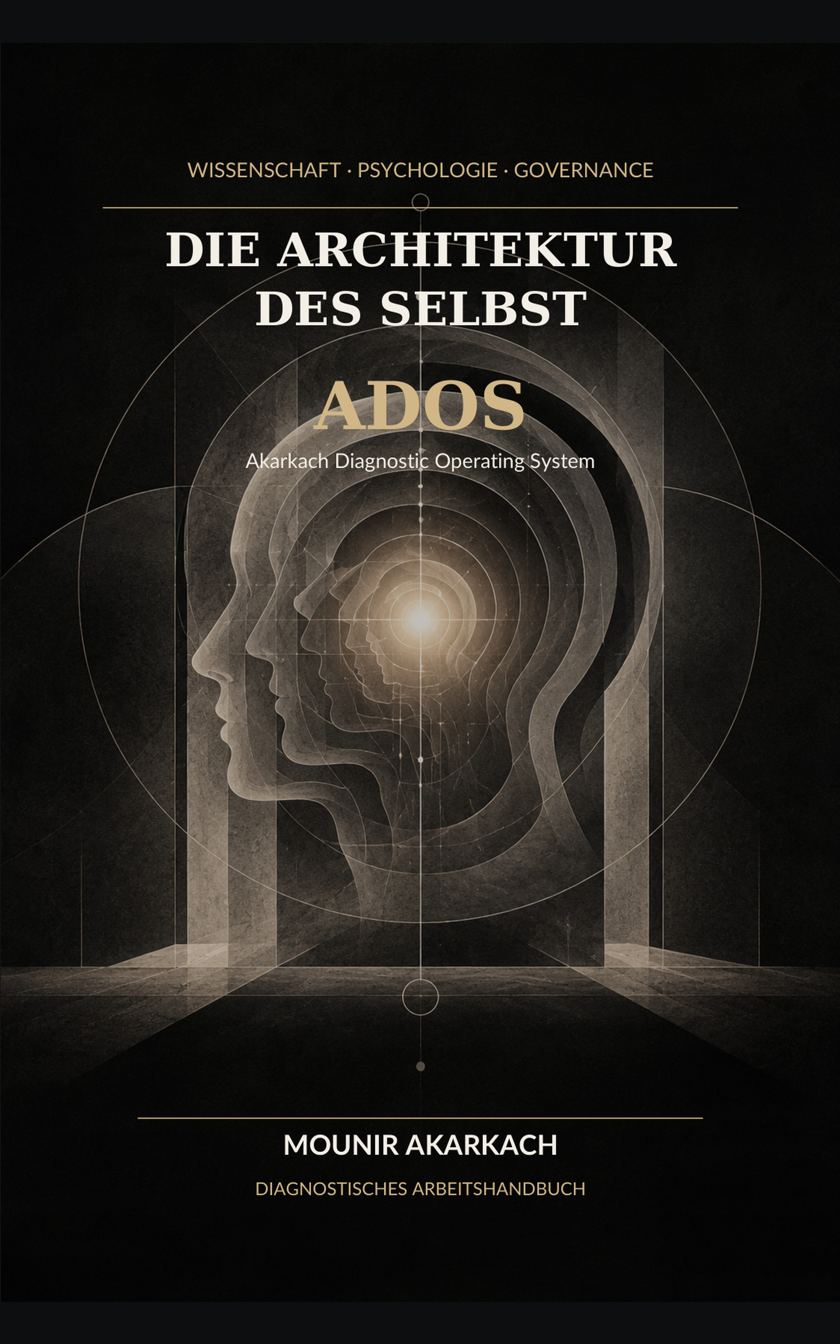
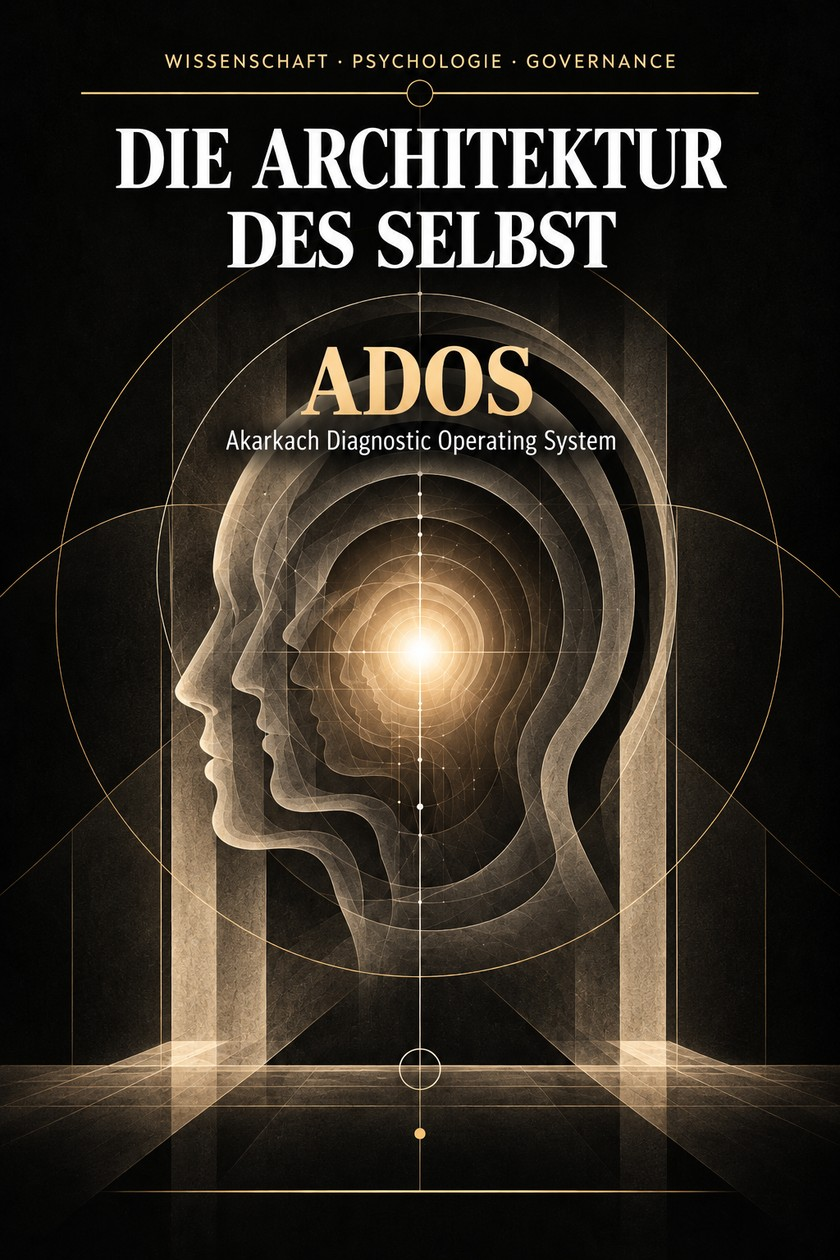
fix(ados): preserve 2:3 cover dimensions in published responsive microsite

diff --git a/index.html b/index.html
@@ -10,13 +10,13 @@
 <meta property="og:url" content="https://mounirakarkach04-pixel.github.io/ados/">
 <style>
 :root{--dark:#0b2932;--dark2:#163c43;--gold:#d5b380;--cream:#f6f2eb;--ink:#18393c;--mute:#587074;--line:#dbe2dd;--green:#3d7664}
-*{box-sizing:border-box}html{scroll-behavior:smooth}body{margin:0;background:var(--cream);color:var(--ink);font-family:system-ui,-apple-system,Segoe UI,Roboto,Arial,sans-serif;line-height:1.64}a{color:inherit}a:focus-visible{outline:3px solid var(--gold);outline-offset:4px}.wrap{width:min(1120px,calc(100% - 40px));margin:auto}.top{background:var(--dark);color:#fff;position:sticky;top:0;z-index:10;border-bottom:1px solid #426069}.nav{min-height:66px;display:flex;align-items:center;justify-content:space-between;gap:12px}.logo{font-weight:800;letter-spacing:.12em;font-size:13px;text-decoration:none}.logo span{color:var(--gold)}.navlinks{display:flex;align-items:center;gap:20px;flex-wrap:wrap}.navlinks a{font-size:12px;text-decoration:none}.navlinks a:hover{text-decoration:underline}.hero{color:#fff;background:radial-gradient(circle at 74% 5%,#41686266,transparent 37%),linear-gradient(120deg,#09252e,#214b49);padding:74px 0 85px}.twocol{display:grid;grid-template-columns:1.15fr .85fr;align-items:center;gap:54px}.kicker{color:#c9a66e;letter-spacing:.17em;font-size:11px;text-transform:uppercase;font-weight:800}h1,h2,h3{line-height:1.13;letter-spacing:-.038em}h1{font-size:clamp(40px,6vw,73px);margin:16px 0 23px}h2{font-size:clamp(30px,4.1vw,46px);margin:15px 0 18px}h3{font-size:21px;margin:0 0 9px}.lead{font-size:clamp(17px,2vw,21px);max-width:640px}.hero p{color:#d6e5de}.btn{display:inline-flex;align-items:center;justify-content:center;min-height:48px;border-radius:9px;padding:12px 20px;text-decoration:none;font-weight:740;font-size:13px;line-height:1.4;border:1px solid transparent}.btn.gold{background:var(--gold);color:#0a2930}.btn.ghost{border-color:#9cb6ad;color:#fff}.btn.dark{background:var(--dark);color:#fff}.btn.light{background:#fff;color:var(--ink);border-color:#cedbd3}.buttons{display:flex;gap:11px;flex-wrap:wrap;margin:28px 0 15px}.coverbox{text-align:center}.cover{width:min(290px,100%);box-shadow:24px 25px 38px #06181e88;transform:perspective(800px) rotateY(-10deg);border-radius:4px}.caption{color:#d8e0d9;font-size:11px;letter-spacing:.08em;margin-top:21px}.metrics{display:flex;gap:12px;flex-wrap:wrap;margin-top:26px}.metric{border:1px solid #75938a55;border-radius:11px;padding:8px 13px;font-size:11px;color:#ceddd7}.metric strong{display:block;font-size:17px;color:#fff}.section{padding:79px 0}.sectionhead{max-width:770px;margin-bottom:31px}.sectionhead p{color:var(--mute)}.cards{display:grid;grid-template-columns:repeat(3,minmax(0,1fr));gap:17px}.card{border:1px solid var(--line);background:#fff;border-radius:17px;padding:25px;display:flex;flex-direction:column}.card p{color:var(--mute);font-size:14px;flex:1;margin:4px 0 21px}.small{font-size:12px;color:var(--mute)}.pill{display:inline-flex;align-self:flex-start;padding:5px 9px;border-radius:99px;background:#e8eee9;color:#366c58;font-size:10px;font-weight:800;letter-spacing:.06em;text-transform:uppercase;margin-bottom:15px}.mutebg{background:#e8eee9}.bullets{list-style:none;margin:16px 0 24px;padding:0}.bullets li{margin:10px 0;padding-left:24px;position:relative}.bullets li:before{content:"→";position:absolute;left:0;color:var(--green)}.method{background:#fff;border:1px solid var(--line);padding:27px;border-radius:19px}.methodrow{padding:15px 0;border-bottom:1px solid var(--line)}.methodrow:last-child{border:0}.methodrow strong{display:block}.methodrow span{display:block;color:var(--mute);font-size:13px;margin-top:4px}.caution{padding:18px 21px;background:#faf3df;border:1px solid #e6d8ac;border-radius:13px;color:#574825;font-size:13px;margin-top:23px}.deep{background:var(--dark);color:#fff}.deep .sectionhead p,.deep .small{color:#cddbd4}.deep .card{background:#1b3e45;color:#fff;border-color:#456369}.deep .card p{color:#cfe1dc}.deep .pill{background:#2b584f;color:#d9f4e5}.flow{display:flex;flex-wrap:wrap;gap:6px;margin-top:20px}.flow span{background:#dfeae4;border-radius:7px;padding:7px 10px;font-size:12px;font-weight:650}.prod a{font-size:13px;font-weight:750;color:#2e6556;text-decoration:none}.prod a:hover{text-decoration:underline}.statement{background:linear-gradient(115deg,#12343d,#2b5a52);color:#fff;border-radius:20px;padding:33px;margin-top:26px}.statement h3{font-size:28px}.statement p{color:#d5e6df}.footer{background:#071d25;color:#d2e0d8;padding:32px 0}.footer .wrap{display:flex;justify-content:space-between;gap:18px;flex-wrap:wrap}.footer a{display:inline-block;font-size:12px;color:#d2e0d8;margin:0 10px 8px 0}.note{max-width:760px;font-size:12px;color:#a9c1b5}.anchor{scroll-margin-top:78px}
+*{box-sizing:border-box}html{scroll-behavior:smooth}body{margin:0;background:var(--cream);color:var(--ink);font-family:system-ui,-apple-system,Segoe UI,Roboto,Arial,sans-serif;line-height:1.64}a{color:inherit}a:focus-visible{outline:3px solid var(--gold);outline-offset:4px}.wrap{width:min(1120px,calc(100% - 40px));margin:auto}.top{background:var(--dark);color:#fff;position:sticky;top:0;z-index:10;border-bottom:1px solid #426069}.nav{min-height:66px;display:flex;align-items:center;justify-content:space-between;gap:12px}.logo{font-weight:800;letter-spacing:.12em;font-size:13px;text-decoration:none}.logo span{color:var(--gold)}.navlinks{display:flex;align-items:center;gap:20px;flex-wrap:wrap}.navlinks a{font-size:12px;text-decoration:none}.navlinks a:hover{text-decoration:underline}.hero{color:#fff;background:radial-gradient(circle at 74% 5%,#41686266,transparent 37%),linear-gradient(120deg,#09252e,#214b49);padding:74px 0 85px}.twocol{display:grid;grid-template-columns:1.15fr .85fr;align-items:center;gap:54px}.kicker{color:#c9a66e;letter-spacing:.17em;font-size:11px;text-transform:uppercase;font-weight:800}h1,h2,h3{line-height:1.13;letter-spacing:-.038em}h1{font-size:clamp(40px,6vw,73px);margin:16px 0 23px}h2{font-size:clamp(30px,4.1vw,46px);margin:15px 0 18px}h3{font-size:21px;margin:0 0 9px}.lead{font-size:clamp(17px,2vw,21px);max-width:640px}.hero p{color:#d6e5de}.btn{display:inline-flex;align-items:center;justify-content:center;min-height:48px;border-radius:9px;padding:12px 20px;text-decoration:none;font-weight:740;font-size:13px;line-height:1.4;border:1px solid transparent}.btn.gold{background:var(--gold);color:#0a2930}.btn.ghost{border-color:#9cb6ad;color:#fff}.btn.dark{background:var(--dark);color:#fff}.btn.light{background:#fff;color:var(--ink);border-color:#cedbd3}.buttons{display:flex;gap:11px;flex-wrap:wrap;margin:28px 0 15px}.coverbox{text-align:center}.cover{display:block;width:min(290px,100%);max-width:100%;height:auto!important;max-height:none;aspect-ratio:2/3;object-fit:contain;box-shadow:15px 20px 35px #06181e88;transform:none!important;border-radius:4px;margin-inline:auto}.caption{color:#d8e0d9;font-size:11px;letter-spacing:.08em;margin-top:21px}.metrics{display:flex;gap:12px;flex-wrap:wrap;margin-top:26px}.metric{border:1px solid #75938a55;border-radius:11px;padding:8px 13px;font-size:11px;color:#ceddd7}.metric strong{display:block;font-size:17px;color:#fff}.section{padding:79px 0}.sectionhead{max-width:770px;margin-bottom:31px}.sectionhead p{color:var(--mute)}.cards{display:grid;grid-template-columns:repeat(3,minmax(0,1fr));gap:17px}.card{border:1px solid var(--line);background:#fff;border-radius:17px;padding:25px;display:flex;flex-direction:column}.card p{color:var(--mute);font-size:14px;flex:1;margin:4px 0 21px}.small{font-size:12px;color:var(--mute)}.pill{display:inline-flex;align-self:flex-start;padding:5px 9px;border-radius:99px;background:#e8eee9;color:#366c58;font-size:10px;font-weight:800;letter-spacing:.06em;text-transform:uppercase;margin-bottom:15px}.mutebg{background:#e8eee9}.bullets{list-style:none;margin:16px 0 24px;padding:0}.bullets li{margin:10px 0;padding-left:24px;position:relative}.bullets li:before{content:"→";position:absolute;left:0;color:var(--green)}.method{background:#fff;border:1px solid var(--line);padding:27px;border-radius:19px}.methodrow{padding:15px 0;border-bottom:1px solid var(--line)}.methodrow:last-child{border:0}.methodrow strong{display:block}.methodrow span{display:block;color:var(--mute);font-size:13px;margin-top:4px}.caution{padding:18px 21px;background:#faf3df;border:1px solid #e6d8ac;border-radius:13px;color:#574825;font-size:13px;margin-top:23px}.deep{background:var(--dark);color:#fff}.deep .sectionhead p,.deep .small{color:#cddbd4}.deep .card{background:#1b3e45;color:#fff;border-color:#456369}.deep .card p{color:#cfe1dc}.deep .pill{background:#2b584f;color:#d9f4e5}.flow{display:flex;flex-wrap:wrap;gap:6px;margin-top:20px}.flow span{background:#dfeae4;border-radius:7px;padding:7px 10px;font-size:12px;font-weight:650}.prod a{font-size:13px;font-weight:750;color:#2e6556;text-decoration:none}.prod a:hover{text-decoration:underline}.statement{background:linear-gradient(115deg,#12343d,#2b5a52);color:#fff;border-radius:20px;padding:33px;margin-top:26px}.statement h3{font-size:28px}.statement p{color:#d5e6df}.footer{background:#071d25;color:#d2e0d8;padding:32px 0}.footer .wrap{display:flex;justify-content:space-between;gap:18px;flex-wrap:wrap}.footer a{display:inline-block;font-size:12px;color:#d2e0d8;margin:0 10px 8px 0}.note{max-width:760px;font-size:12px;color:#a9c1b5}.anchor{scroll-margin-top:78px}
 @media(max-width:900px){.twocol{grid-template-columns:1fr;gap:28px}.cover{max-width:240px}.cards{grid-template-columns:repeat(2,minmax(0,1fr))}}
 @media(max-width:600px){.wrap{width:calc(100% - 30px)}.nav{gap:9px}.logo{font-size:11px}.navlinks{gap:9px}.navlinks a{font-size:10px}.navlinks a:nth-child(3){display:none}.hero{padding:46px 0 62px}.section{padding:60px 0}.cards{grid-template-columns:1fr}.buttons .btn{width:100%}.cover{max-width:205px}.statement{padding:25px}.footer .wrap{display:block}}
 </style></head><body>
 <header class="top"><nav class="wrap nav" aria-label="Navigation"><a class="logo" href="/">PIGA POCKET <span> / ADOS</span></a><div class="navlinks"><a href="#buch">Buch</a><a href="#demo">Download</a><a href="#lizenz">Lizenz</a><a href="#portfolio">PIGA Produkte</a></div></nav></header>
 <main>
-<section class="hero"><div class="wrap twocol"><div><div class="kicker">Wissenschaft · Psychologie · Governance</div><h1>Die Architektur<br>des Selbst.</h1><p class="lead">Beobachtung ist keine Diagnose.<br><strong>Und eine Hypothese noch keine Gewissheit.</strong></p><p>ADOS – Akarkach Diagnostic Operating System ist eine theoretische Prüfarchitektur für psychologische Fallanalysen, nachvollziehbare Evidenz, Gegenhypothesen und Entscheidungsgrenzen.</p><div class="buttons"><a class="btn gold" href="#demo">Kostenlose Forschungsdemo testen ↗</a><a class="btn ghost" href="#buch">Das Buch entdecken</a></div><div class="metrics"><div class="metric"><strong>18</strong>Fachkapitel</div><div class="metric"><strong>7 + 7</strong>A7SEM & Reverse</div><div class="metric"><strong>2</strong>Getrennte Gates</div></div></div><div class="coverbox"><img class="cover" src="/ados/cover.jpg" width="840" height="1344" alt="Die Architektur des Selbst – ADOS Buchcover von Mounir Akarkach"><div class="caption">BUCH · METHODIK · SOFTWARE-DEMO</div></div></div></section>
+<section class="hero"><div class="wrap twocol"><div><div class="kicker">Wissenschaft · Psychologie · Governance</div><h1>Die Architektur<br>des Selbst.</h1><p class="lead">Beobachtung ist keine Diagnose.<br><strong>Und eine Hypothese noch keine Gewissheit.</strong></p><p>ADOS – Akarkach Diagnostic Operating System ist eine theoretische Prüfarchitektur für psychologische Fallanalysen, nachvollziehbare Evidenz, Gegenhypothesen und Entscheidungsgrenzen.</p><div class="buttons"><a class="btn gold" href="#demo">Kostenlose Forschungsdemo testen ↗</a><a class="btn ghost" href="#buch">Das Buch entdecken</a></div><div class="metrics"><div class="metric"><strong>18</strong>Fachkapitel</div><div class="metric"><strong>7 + 7</strong>A7SEM & Reverse</div><div class="metric"><strong>2</strong>Getrennte Gates</div></div></div><div class="coverbox"><img class="cover" src="/ados/cover.jpg?v=20261024" width="840" height="1260" alt="Die Architektur des Selbst – ADOS Buchcover von Mounir Akarkach"><div class="caption">BUCH · METHODIK · SOFTWARE-DEMO</div></div></div></section>
 <section class="section anchor" id="buch"><div class="wrap twocol"><div><div class="kicker">01 / Das Buch</div><h2>Wo endet Beobachtung – und wo beginnt Interpretation?</h2><p>Das wissenschaftliche Buch <strong>„Die Architektur des Selbst“</strong> führt ADOS als methodische Forschungs- und Reflexionsarchitektur ein. Was wurde tatsächlich berichtet, beobachtet oder gemessen? Was ist Interpretation? Welche Alternativerklärungen bleiben offen?</p><p>18 Kapitel behandeln unter anderem depressive Zustände, Angst, Traumafolgen, Dissoziation, Persönlichkeit, Bindung, Kognition und emotionale Regulation – mit konstruierten Beispielen, Prüfprotokollen und dokumentierten Unsicherheiten.</p><ul class="bullets"><li>Originalbefunde von Deutungen trennen</li><li>Gegenhypothesen und Evidenzlücken identifizieren</li><li>Entscheidungsgrenzen transparent dokumentieren</li><li>Diagnostische Scheinsicherheit vermeiden</li></ul><div class="buttons"><a class="btn dark" href="https://www.amazon.de/s?k=Die+Architektur+des+Selbst+Mounir+Akarkach" target="_blank" rel="noopener noreferrer">Buch bei Amazon suchen ↗</a><a class="btn light" href="#demo">Arbeitslogik testen</a></div><div class="small">Hinweis: Bis eine konkrete ASIN bestätigt ist, führt der Amazon-Link zur Suche und nicht zu einer verifizierten Produktdetailseite.</div></div><div class="method"><div class="methodrow"><strong>PIGA – Pre-Inference Governance</strong><span>Trennung zwischen Gate 1 für Schlussfolgerungen und Gate 2 für autorisierte Handlungen.</span></div><div class="methodrow"><strong>A7SEM – 7-Stufen-Modell</strong><span>Verlauf, Kontext, Rückkopplung und Systemzustände analysieren.</span></div><div class="methodrow"><strong>A7SEM Reverse</strong><span>Schlussfolgerungen zurückverfolgen zu den Quellen und ihren Gültigkeitsgrenzen.</span></div><div class="methodrow"><strong>ARGUS-7 & NSF-325</strong><span>Kontrollperspektiven sowie optionales Forschungs- und Auditregister, keine klinisch validierte Skala.</span></div><div class="methodrow"><strong>Glassbox Evidence</strong><span>Dokumentations- und Revisionsnachweise statt Blackbox-Behauptung.</span></div></div></div></section>
 <section class="section mutebg anchor" id="demo"><div class="wrap"><div class="sectionhead"><div class="kicker">02 / Kostenfrei testen</div><h2>Die Logik ist nicht nur beschrieben. Sie ist reproduzierbar.</h2><p>ADOS Governance Lite v0.6 verbindet die A–F-Prüfblätter, lokale PIGA-Demo-Gates, A7SEM / Reverse, endliche Prüfschritte und menschlich ausgelöste Re-Entry-Checks. Ohne Cloud-KI, Anmeldung oder kostenpflichtige API.</p></div><div class="cards">
 <article class="card"><span class="pill">Offline · Kostenlos</span><h3>Forschungsdemo</h3><p>Die vollständige eigenständige HTML-App lokal im unterstützten Browser ausführen. Nur fiktive, synthetische Testfälle.</p><a class="btn dark" href="/ados/downloads/ADOS_Governance_Lite_v0_6_OFFLINE.html" download>Offline-App herunterladen ↓</a></article>
